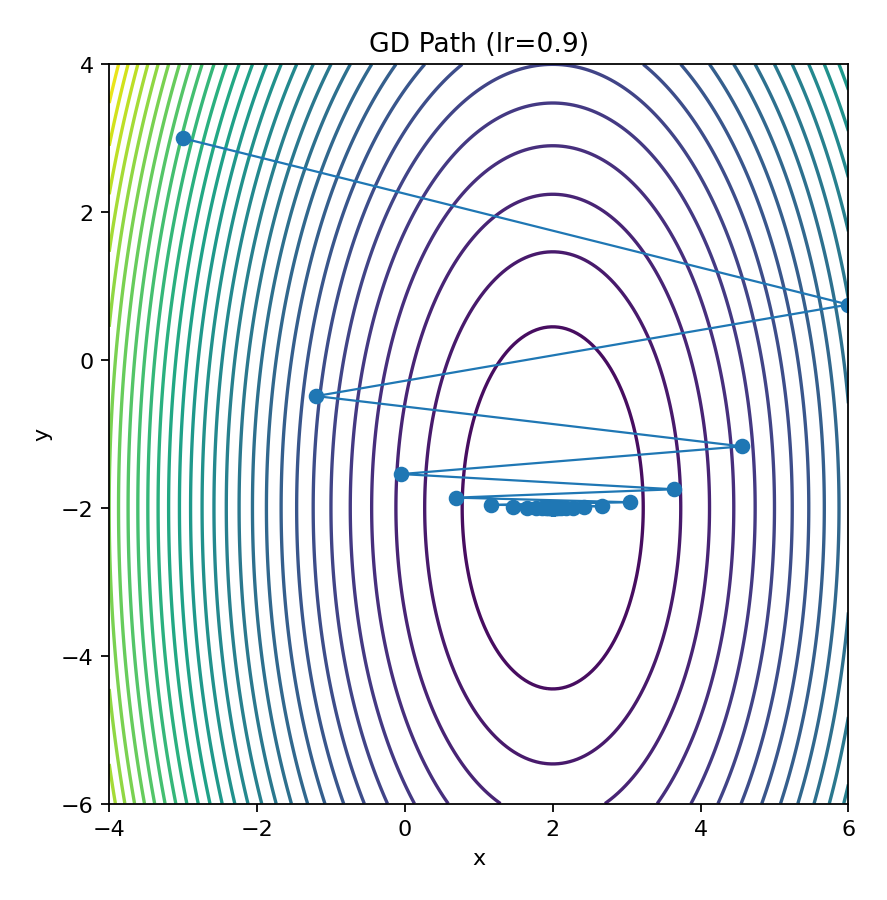
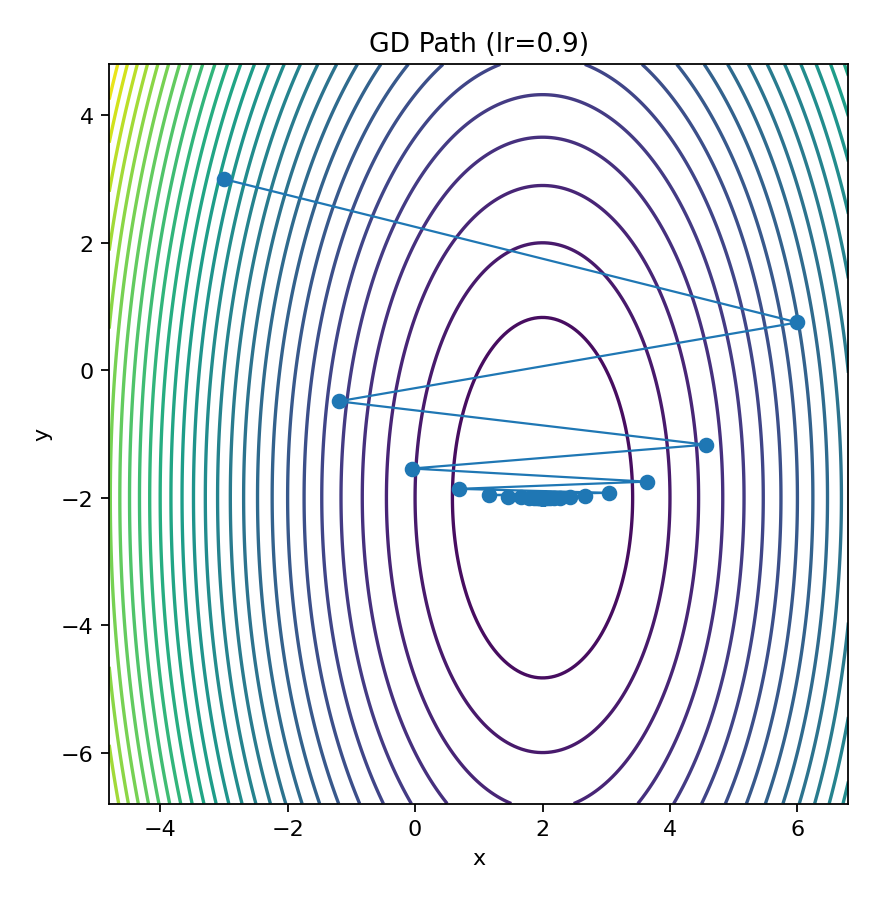
vis: autoscale LR sweep for divergent rates
Dynamically trims and resizes the view so lr=0.9 and lr=1.5 paths are visible; background contour rebuilt per panel.

diff --git a/examples/lr_sweep.py b/examples/lr_sweep.py
@@ -2,25 +2,67 @@ import numpy as np
 import matplotlib.pyplot as plt
 from mfd4.gradient_descent import gd, quadratic
 
+# Quadratic bowl
 f, grad = quadratic(a=1.0, b=2.0, c=0.5, d=-1.0)
 
-xs = np.linspace(-4, 6, 200)
-ys = np.linspace(-6, 4, 200)
-XX, YY = np.meshgrid(xs, ys)
-ZZ = (XX - 2.0)**2 + (0.5*YY + 1.0)**2
+# A baseline grid range (used if paths stay inside it)
+BASE_X = (-4.0, 6.0)
+BASE_Y = (-6.0, 4.0)
 
+def quad_surface(xmin, xmax, ymin, ymax, n=200):
+    xs = np.linspace(xmin, xmax, n)
+    ys = np.linspace(ymin, ymax, n)
+    XX, YY = np.meshgrid(xs, ys)
+    ZZ = (XX - 2.0)**2 + (0.5*YY + 1.0)**2
+    return xs, ys, XX, YY, ZZ
+
+def trim_path_for_display(path, limit=30.0, fallback_n=30):
+    """
+    Keep the path until it leaves a reasonable window (±limit).
+    If it leaves immediately, show the first fallback_n points.
+    """
+    mask = (np.abs(path[:, 0]) <= limit) & (np.abs(path[:, 1]) <= limit)
+    if np.any(mask):
+        last_ok = np.where(mask)[0].max()
+        return path[: last_ok + 1]
+    return path[: min(fallback_n, len(path))]
+
+def dynamic_bounds(path, base_x=BASE_X, base_y=BASE_Y, pad=0.08):
+    """
+    Compute axis limits that include both the baseline window and the (trimmed) path.
+    Add a small padding so points aren’t on the edge.
+    """
+    x_min = min(base_x[0], np.nanmin(path[:, 0]))
+    x_max = max(base_x[1], np.nanmax(path[:, 0]))
+    y_min = min(base_y[0], np.nanmin(path[:, 1]))
+    y_max = max(base_y[1], np.nanmax(path[:, 1]))
+
+    dx = x_max - x_min or 1.0
+    dy = y_max - y_min or 1.0
+    x_min -= pad * dx; x_max += pad * dx
+    y_min -= pad * dy; y_max += pad * dy
+    return float(x_min), float(x_max), float(y_min), float(y_max)
+
+# Run the sweep
 for lr in [0.05, 0.1, 0.3, 0.9, 1.5]:
     _, path, _ = gd(f, grad, x0=[-3, 3], lr=lr, steps=80)
 
+    # For divergent cases, trim the view to the informative region
+    shown = trim_path_for_display(path, limit=30.0, fallback_n=40)
+
+    # Autoscale around the (trimmed) path + baseline window
+    x_min, x_max, y_min, y_max = dynamic_bounds(shown)
+
+    # Build a contour surface over the chosen window (so background isn’t blank)
+    _, _, XX, YY, ZZ = quad_surface(x_min, x_max, y_min, y_max, n=220)
+
+    # Plot
     plt.figure(figsize=(6, 6))
     plt.contour(XX, YY, ZZ, levels=30)
-    plt.plot(path[:, 0], path[:, 1], marker='o', linewidth=1)
-
-    # prevent stretching
-    plt.xlim(xs.min(), xs.max())
-    plt.ylim(ys.min(), ys.max())
+    plt.plot(shown[:, 0], shown[:, 1], marker='o', linewidth=1)
+    plt.xlim(x_min, x_max)
+    plt.ylim(y_min, y_max)
     plt.gca().set_aspect("equal", adjustable="box")
-
     plt.title(f"GD Path (lr={lr})")
     plt.xlabel("x"); plt.ylabel("y")
     plt.savefig(f"figures/quadratic_lr_{str(lr).replace('.','p')}.png",
